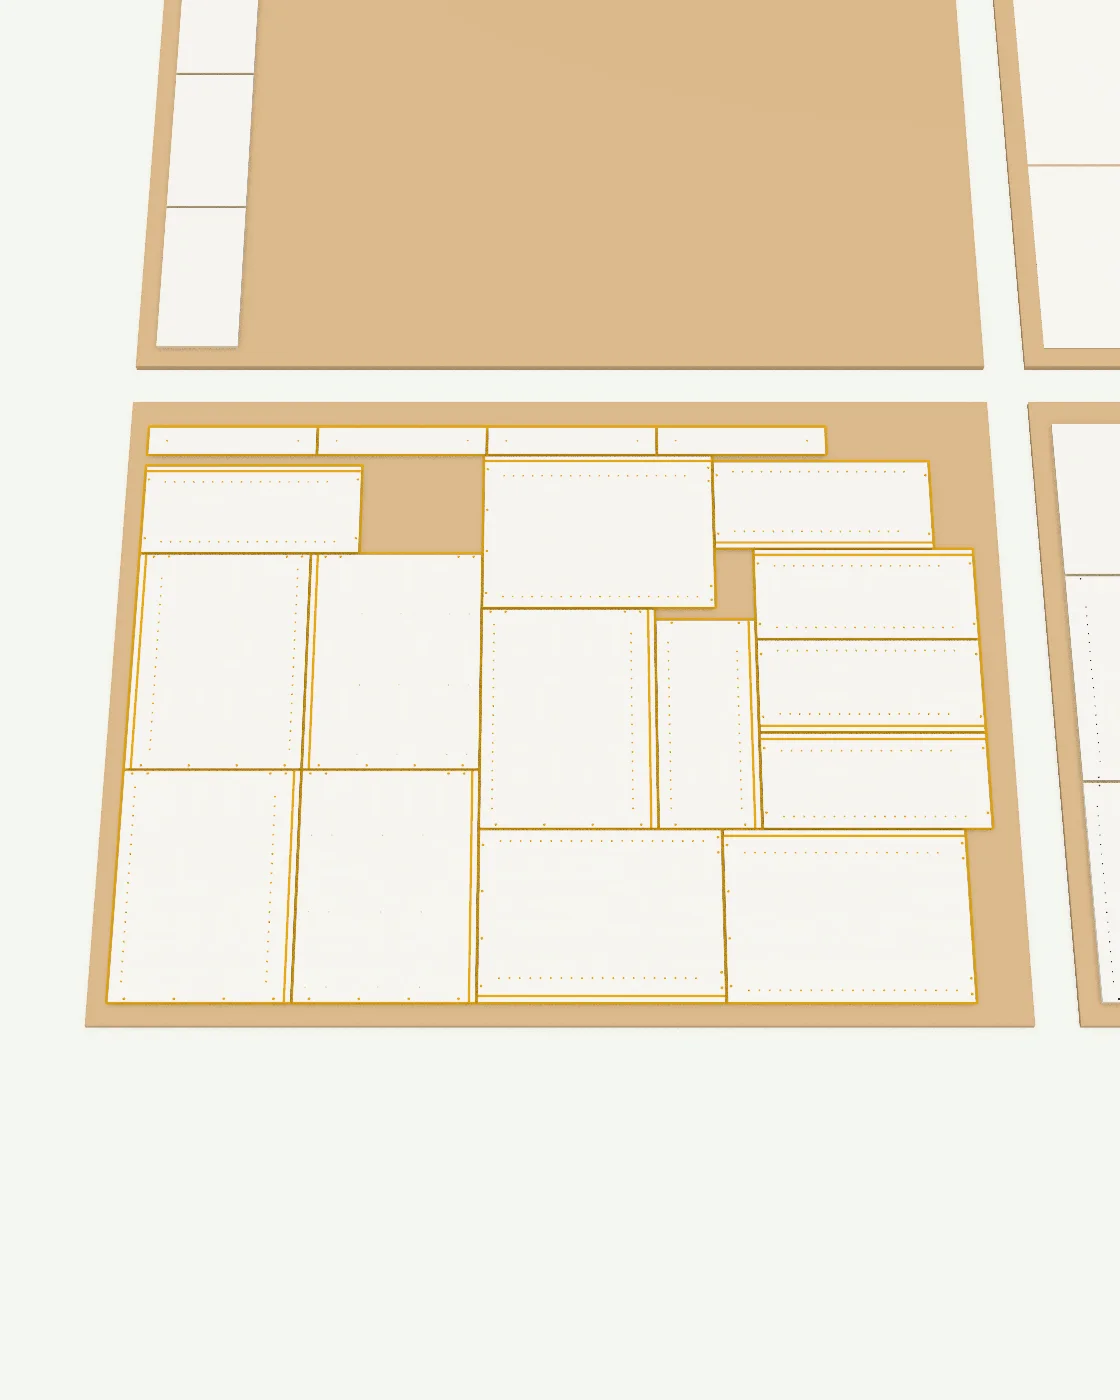
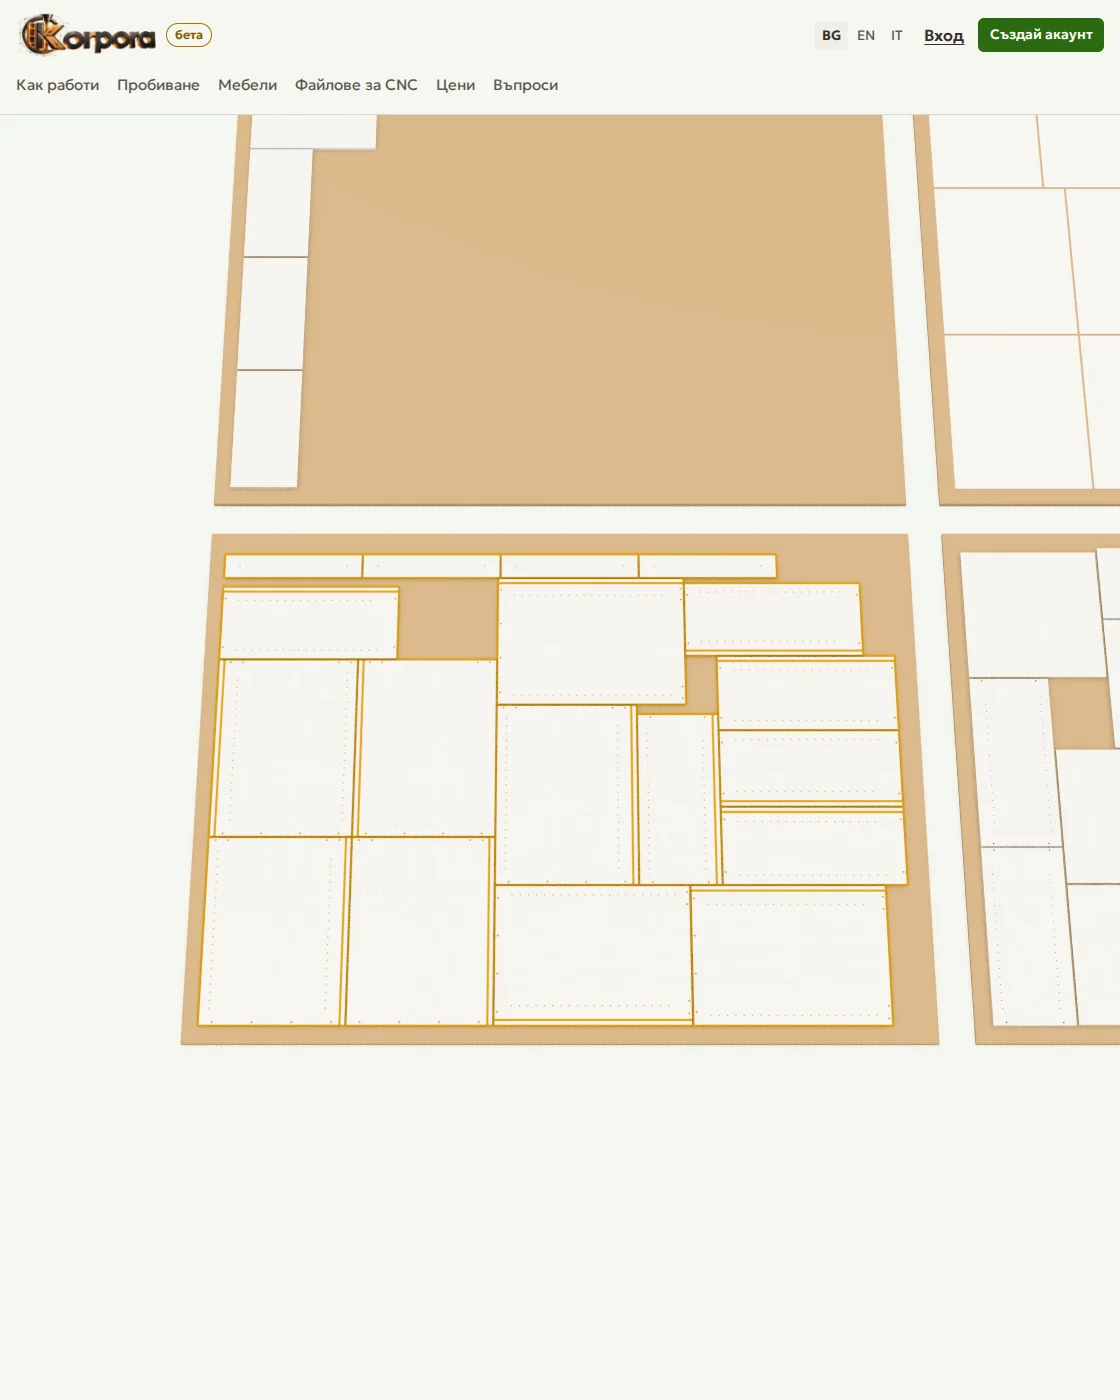
fix(korpora): витрина — стъпка 4 показва лист 1 цял, табелката не го закрива
Кадърът на фрезата беше толкова близо, че листът опираше в рамката (а в по-тясна рамка снимката 4:5 се
подрязва отстрани). Лист 1 заема около 70% от ширината и стои малко по-ниско, листът над него се вижда под
табелката. Камерата е обща за живата сцена и за снимките; пренарисувани са снимките на стъпка 4.

Claude-Session: https://claude.ai/code/session_01TYcSKmnA3hAv9gGAnaqW7r

Changed region(s): [[0.0, 0.0, 1.0, 0.7679]]

diff --git a/korpora/landing/story-camera.js b/korpora/landing/story-camera.js
@@ -27,7 +27,11 @@ export function cameraKeys(camera, ext, sheets) {
   const exploded = key(furniture.clone().setY(ext.H * 0.55), [0.66, 0.5, 1], dist * 1.4);
   // over the sheets the camera has no sideways offset: their edges stay level on the screen
   const all = key(sheets.all.centre, [0, 1.15, 0.62], fitDistance(camera, sheets.all.radius, 0.96));
-  const one = key(sheets.one.centre, [0, 1, 0.42], fitDistance(camera, sheets.one.radius, 1.02));
+  // sheet 1 fills about 70% of the width: the 4:5 still is cropped on the sides in a narrower frame (down to 0.66), and
+  // the read-out sits over the empty sheet above, never over sheet 1
+  // and sits a little low: the sheet above shows over it, the empty frame below is not left to the sheet's own height
+  const oneAt = sheets.one.centre.clone().add(new THREE.Vector3(0, 0, -sheets.one.radius * 0.2));
+  const one = key(oneAt, [0, 1, 0.42], fitDistance(camera, sheets.one.radius, 1.28));
   return { hero, exploded, all, one };
 }
 
